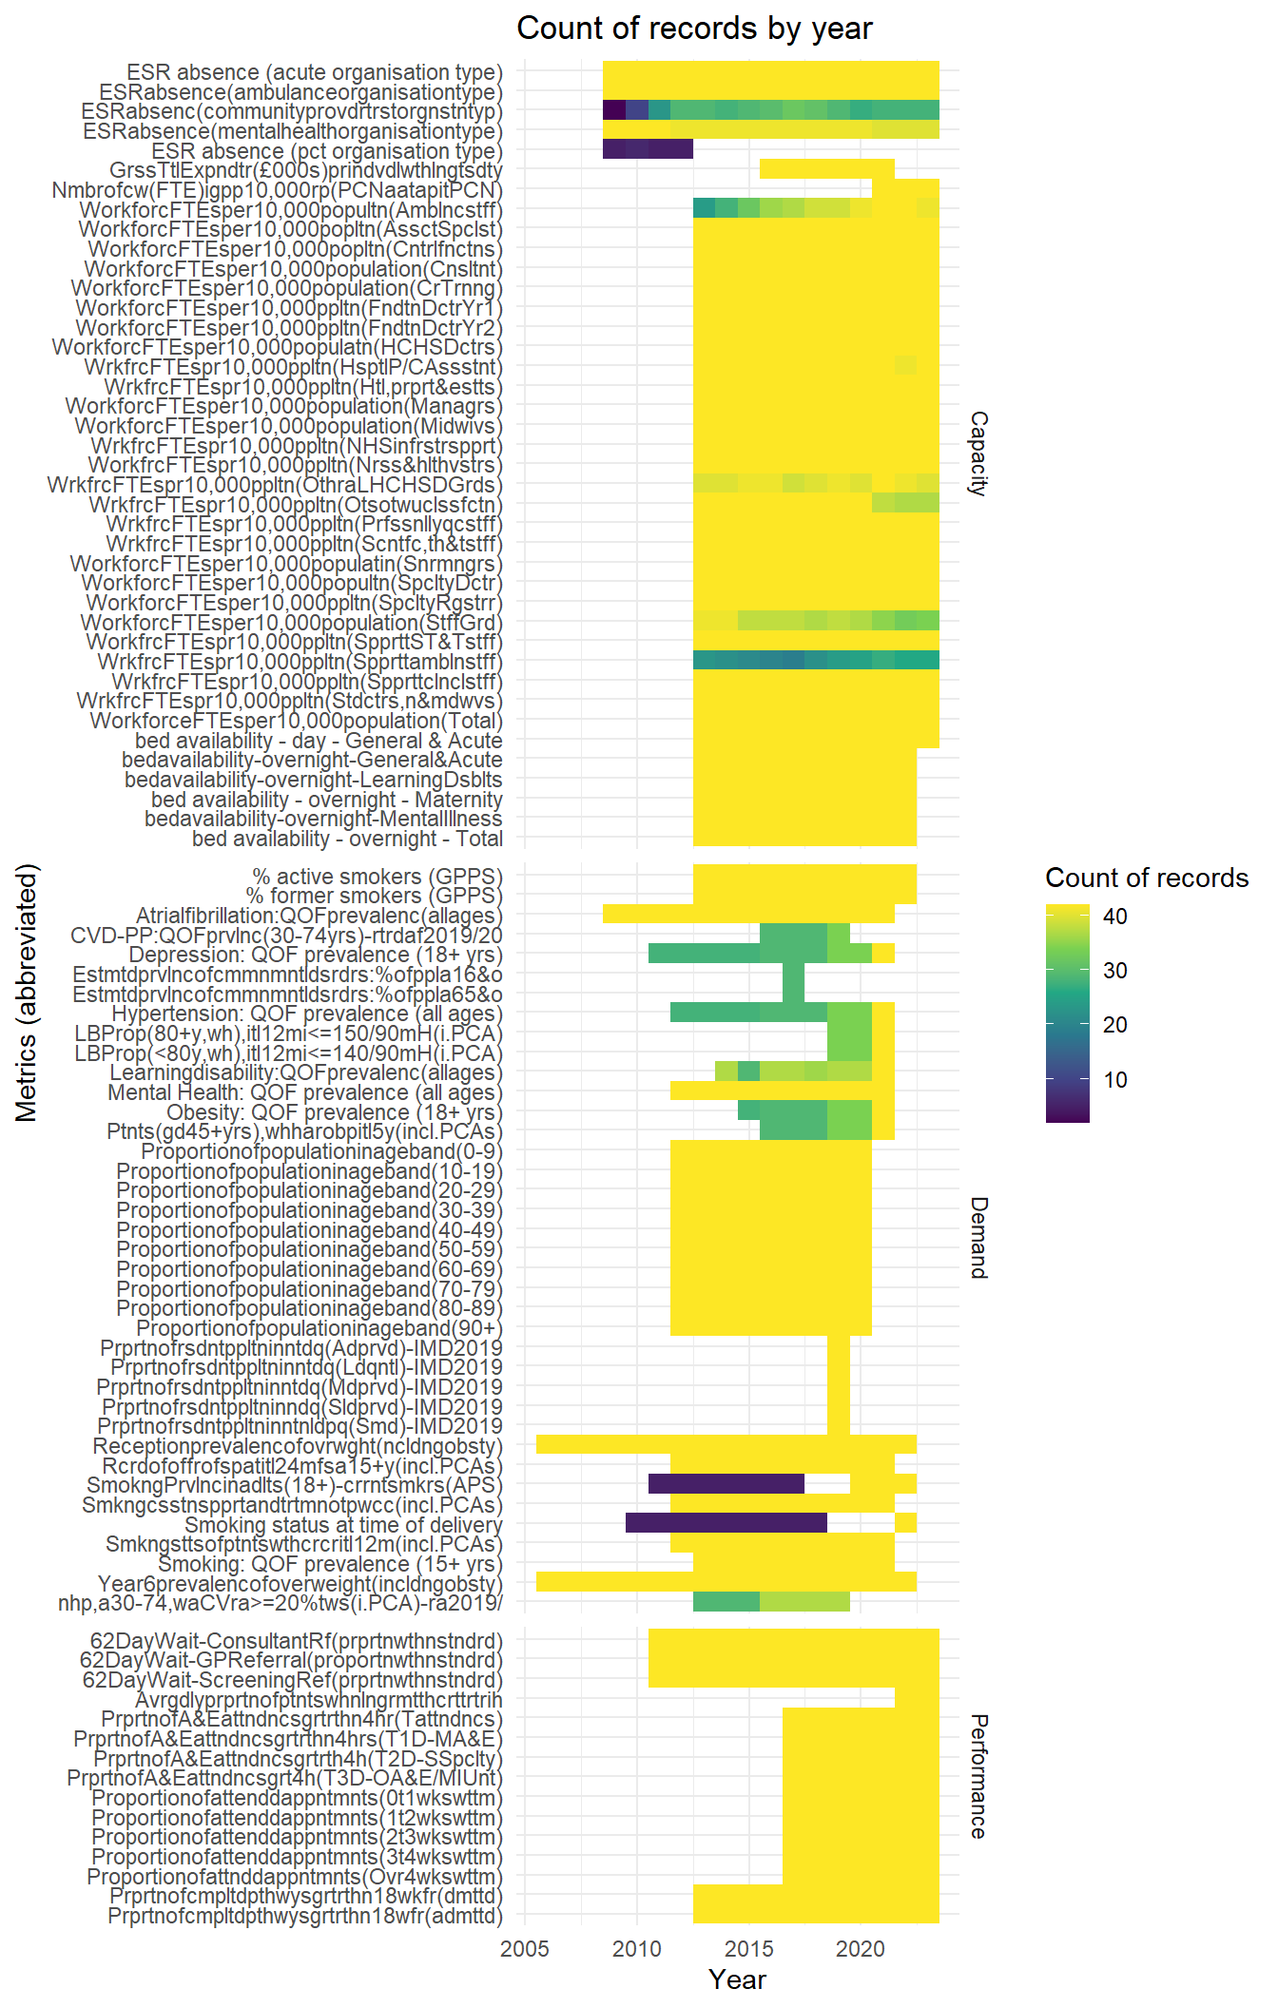
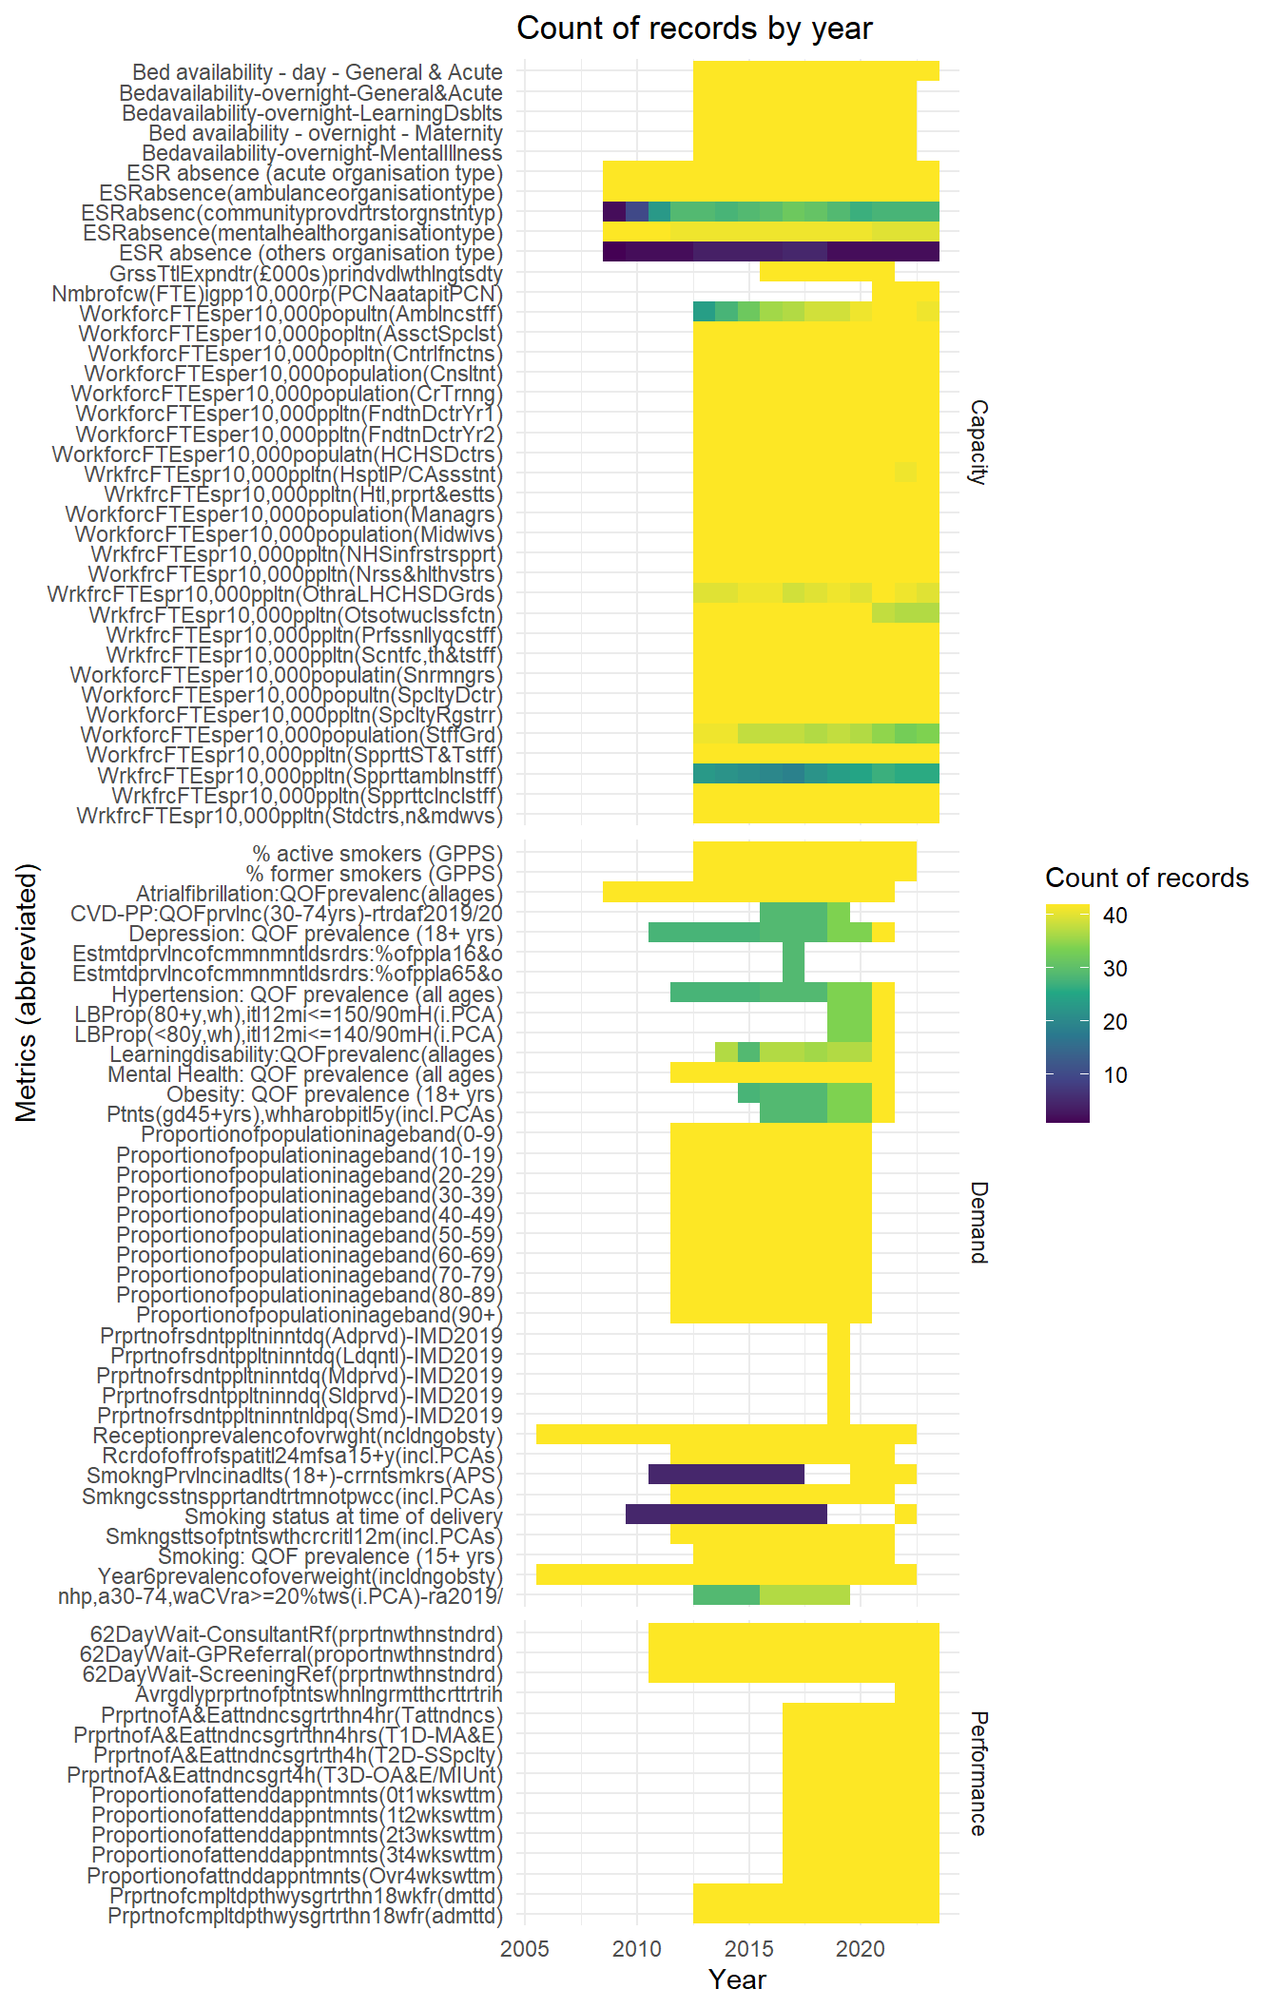
updates exploratory data analysis with correlation plots

diff --git a/docs/outputs/data_description.html b/docs/outputs/data_description.html
@@ -210,163 +210,155 @@ ul.task-list li input[type="checkbox"] {
 <tbody>
 <tr class="odd">
 <td style="text-align: left; color: white !important; background-color: #681C66 !important;">Capacity</td>
-<td style="text-align: left; color: white !important; background-color: #681C66 !important;">ESR absence (acute organisation type)</td>
+<td style="text-align: left; color: white !important; background-color: #681C66 !important;">Bed availability - day - General &amp; Acute</td>
 </tr>
 <tr class="even">
+<td style="text-align: left; color: white !important; background-color: #681C66 !important;">Capacity</td>
+<td style="text-align: left; color: white !important; background-color: #681C66 !important;">Bed availability - overnight - General &amp; Acute</td>
+</tr>
+<tr class="odd">
+<td style="text-align: left; color: white !important; background-color: #681C66 !important;">Capacity</td>
+<td style="text-align: left; color: white !important; background-color: #681C66 !important;">Bed availability - overnight - Learning Disabilities</td>
+</tr>
+<tr class="even">
+<td style="text-align: left; color: white !important; background-color: #681C66 !important;">Capacity</td>
+<td style="text-align: left; color: white !important; background-color: #681C66 !important;">Bed availability - overnight - Maternity</td>
+</tr>
+<tr class="odd">
+<td style="text-align: left; color: white !important; background-color: #681C66 !important;">Capacity</td>
+<td style="text-align: left; color: white !important; background-color: #681C66 !important;">Bed availability - overnight - Mental Illness</td>
+</tr>
+<tr class="even">
+<td style="text-align: left; color: white !important; background-color: #681C66 !important;">Capacity</td>
+<td style="text-align: left; color: white !important; background-color: #681C66 !important;">ESR absence (acute organisation type)</td>
+</tr>
+<tr class="odd">
 <td style="text-align: left; color: white !important; background-color: #681C66 !important;">Capacity</td>
 <td style="text-align: left; color: white !important; background-color: #681C66 !important;">ESR absence (ambulance organisation type)</td>
 </tr>
-<tr class="odd">
+<tr class="even">
 <td style="text-align: left; color: white !important; background-color: #681C66 !important;">Capacity</td>
 <td style="text-align: left; color: white !important; background-color: #681C66 !important;">ESR absence (community provider trust organisation type)</td>
 </tr>
-<tr class="even">
+<tr class="odd">
 <td style="text-align: left; color: white !important; background-color: #681C66 !important;">Capacity</td>
 <td style="text-align: left; color: white !important; background-color: #681C66 !important;">ESR absence (mental health organisation type)</td>
 </tr>
-<tr class="odd">
-<td style="text-align: left; color: white !important; background-color: #681C66 !important;">Capacity</td>
-<td style="text-align: left; color: white !important; background-color: #681C66 !important;">ESR absence (pct organisation type)</td>
-</tr>
 <tr class="even">
+<td style="text-align: left; color: white !important; background-color: #681C66 !important;">Capacity</td>
+<td style="text-align: left; color: white !important; background-color: #681C66 !important;">ESR absence (others organisation type)</td>
+</tr>
+<tr class="odd">
 <td style="text-align: left; color: white !important; background-color: #681C66 !important;">Capacity</td>
 <td style="text-align: left; color: white !important; background-color: #681C66 !important;">Gross Total Expenditure (£000s) per individual with long term support during the year</td>
 </tr>
-<tr class="odd">
+<tr class="even">
 <td style="text-align: left; color: white !important; background-color: #681C66 !important;">Capacity</td>
 <td style="text-align: left; color: white !important; background-color: #681C66 !important;">Number of clinical workforce (FTE) in general practice per 10,000 registered patients (PCN average applied to all practices in the PCN)</td>
 </tr>
-<tr class="even">
+<tr class="odd">
 <td style="text-align: left; color: white !important; background-color: #681C66 !important;">Capacity</td>
 <td style="text-align: left; color: white !important; background-color: #681C66 !important;">Workforce FTEs per 10,000 population (Ambulance staff)</td>
 </tr>
-<tr class="odd">
+<tr class="even">
 <td style="text-align: left; color: white !important; background-color: #681C66 !important;">Capacity</td>
 <td style="text-align: left; color: white !important; background-color: #681C66 !important;">Workforce FTEs per 10,000 population (Associate Specialist)</td>
 </tr>
-<tr class="even">
+<tr class="odd">
 <td style="text-align: left; color: white !important; background-color: #681C66 !important;">Capacity</td>
 <td style="text-align: left; color: white !important; background-color: #681C66 !important;">Workforce FTEs per 10,000 population (Central functions)</td>
 </tr>
-<tr class="odd">
+<tr class="even">
 <td style="text-align: left; color: white !important; background-color: #681C66 !important;">Capacity</td>
 <td style="text-align: left; color: white !important; background-color: #681C66 !important;">Workforce FTEs per 10,000 population (Consultant)</td>
 </tr>
-<tr class="even">
+<tr class="odd">
 <td style="text-align: left; color: white !important; background-color: #681C66 !important;">Capacity</td>
 <td style="text-align: left; color: white !important; background-color: #681C66 !important;">Workforce FTEs per 10,000 population (Core Training)</td>
 </tr>
-<tr class="odd">
+<tr class="even">
 <td style="text-align: left; color: white !important; background-color: #681C66 !important;">Capacity</td>
 <td style="text-align: left; color: white !important; background-color: #681C66 !important;">Workforce FTEs per 10,000 population (Foundation Doctor Year 1)</td>
 </tr>
-<tr class="even">
+<tr class="odd">
 <td style="text-align: left; color: white !important; background-color: #681C66 !important;">Capacity</td>
 <td style="text-align: left; color: white !important; background-color: #681C66 !important;">Workforce FTEs per 10,000 population (Foundation Doctor Year 2)</td>
 </tr>
-<tr class="odd">
+<tr class="even">
 <td style="text-align: left; color: white !important; background-color: #681C66 !important;">Capacity</td>
 <td style="text-align: left; color: white !important; background-color: #681C66 !important;">Workforce FTEs per 10,000 population (HCHS Doctors)</td>
 </tr>
-<tr class="even">
+<tr class="odd">
 <td style="text-align: left; color: white !important; background-color: #681C66 !important;">Capacity</td>
 <td style="text-align: left; color: white !important; background-color: #681C66 !important;">Workforce FTEs per 10,000 population (Hospital Practitioner / Clinical Assistant)</td>
 </tr>
-<tr class="odd">
+<tr class="even">
 <td style="text-align: left; color: white !important; background-color: #681C66 !important;">Capacity</td>
 <td style="text-align: left; color: white !important; background-color: #681C66 !important;">Workforce FTEs per 10,000 population (Hotel, property &amp; estates)</td>
 </tr>
-<tr class="even">
+<tr class="odd">
 <td style="text-align: left; color: white !important; background-color: #681C66 !important;">Capacity</td>
 <td style="text-align: left; color: white !important; background-color: #681C66 !important;">Workforce FTEs per 10,000 population (Managers)</td>
 </tr>
-<tr class="odd">
+<tr class="even">
 <td style="text-align: left; color: white !important; background-color: #681C66 !important;">Capacity</td>
 <td style="text-align: left; color: white !important; background-color: #681C66 !important;">Workforce FTEs per 10,000 population (Midwives)</td>
 </tr>
-<tr class="even">
+<tr class="odd">
 <td style="text-align: left; color: white !important; background-color: #681C66 !important;">Capacity</td>
 <td style="text-align: left; color: white !important; background-color: #681C66 !important;">Workforce FTEs per 10,000 population (NHS infrastructure support)</td>
 </tr>
-<tr class="odd">
+<tr class="even">
 <td style="text-align: left; color: white !important; background-color: #681C66 !important;">Capacity</td>
 <td style="text-align: left; color: white !important; background-color: #681C66 !important;">Workforce FTEs per 10,000 population (Nurses &amp; health visitors)</td>
 </tr>
-<tr class="even">
+<tr class="odd">
 <td style="text-align: left; color: white !important; background-color: #681C66 !important;">Capacity</td>
 <td style="text-align: left; color: white !important; background-color: #681C66 !important;">Workforce FTEs per 10,000 population (Other and Local HCHS Doctor Grades)</td>
 </tr>
-<tr class="odd">
+<tr class="even">
 <td style="text-align: left; color: white !important; background-color: #681C66 !important;">Capacity</td>
 <td style="text-align: left; color: white !important; background-color: #681C66 !important;">Workforce FTEs per 10,000 population (Other staff or those with unknown classification)</td>
 </tr>
-<tr class="even">
+<tr class="odd">
 <td style="text-align: left; color: white !important; background-color: #681C66 !important;">Capacity</td>
 <td style="text-align: left; color: white !important; background-color: #681C66 !important;">Workforce FTEs per 10,000 population (Professionally qualified clinical staff)</td>
 </tr>
-<tr class="odd">
+<tr class="even">
 <td style="text-align: left; color: white !important; background-color: #681C66 !important;">Capacity</td>
 <td style="text-align: left; color: white !important; background-color: #681C66 !important;">Workforce FTEs per 10,000 population (Scientific, therapeutic &amp; technical staff)</td>
 </tr>
-<tr class="even">
+<tr class="odd">
 <td style="text-align: left; color: white !important; background-color: #681C66 !important;">Capacity</td>
 <td style="text-align: left; color: white !important; background-color: #681C66 !important;">Workforce FTEs per 10,000 population (Senior managers)</td>
 </tr>
-<tr class="odd">
+<tr class="even">
 <td style="text-align: left; color: white !important; background-color: #681C66 !important;">Capacity</td>
 <td style="text-align: left; color: white !important; background-color: #681C66 !important;">Workforce FTEs per 10,000 population (Specialty Doctor)</td>
 </tr>
-<tr class="even">
+<tr class="odd">
 <td style="text-align: left; color: white !important; background-color: #681C66 !important;">Capacity</td>
 <td style="text-align: left; color: white !important; background-color: #681C66 !important;">Workforce FTEs per 10,000 population (Specialty Registrar)</td>
 </tr>
-<tr class="odd">
+<tr class="even">
 <td style="text-align: left; color: white !important; background-color: #681C66 !important;">Capacity</td>
 <td style="text-align: left; color: white !important; background-color: #681C66 !important;">Workforce FTEs per 10,000 population (Staff Grade)</td>
 </tr>
-<tr class="even">
+<tr class="odd">
 <td style="text-align: left; color: white !important; background-color: #681C66 !important;">Capacity</td>
 <td style="text-align: left; color: white !important; background-color: #681C66 !important;">Workforce FTEs per 10,000 population (Support to ST&amp;T staff)</td>
 </tr>
-<tr class="odd">
+<tr class="even">
 <td style="text-align: left; color: white !important; background-color: #681C66 !important;">Capacity</td>
 <td style="text-align: left; color: white !important; background-color: #681C66 !important;">Workforce FTEs per 10,000 population (Support to ambulance staff)</td>
 </tr>
-<tr class="even">
+<tr class="odd">
 <td style="text-align: left; color: white !important; background-color: #681C66 !important;">Capacity</td>
 <td style="text-align: left; color: white !important; background-color: #681C66 !important;">Workforce FTEs per 10,000 population (Support to clinical staff)</td>
 </tr>
-<tr class="odd">
+<tr class="even">
 <td style="text-align: left; color: white !important; background-color: #681C66 !important;">Capacity</td>
 <td style="text-align: left; color: white !important; background-color: #681C66 !important;">Workforce FTEs per 10,000 population (Support to doctors, nurses &amp; midwives)</td>
-</tr>
-<tr class="even">
-<td style="text-align: left; color: white !important; background-color: #681C66 !important;">Capacity</td>
-<td style="text-align: left; color: white !important; background-color: #681C66 !important;">Workforce FTEs per 10,000 population (Total)</td>
-</tr>
-<tr class="odd">
-<td style="text-align: left; color: white !important; background-color: #681C66 !important;">Capacity</td>
-<td style="text-align: left; color: white !important; background-color: #681C66 !important;">bed availability - day - General &amp; Acute</td>
-</tr>
-<tr class="even">
-<td style="text-align: left; color: white !important; background-color: #681C66 !important;">Capacity</td>
-<td style="text-align: left; color: white !important; background-color: #681C66 !important;">bed availability - overnight - General &amp; Acute</td>
-</tr>
-<tr class="odd">
-<td style="text-align: left; color: white !important; background-color: #681C66 !important;">Capacity</td>
-<td style="text-align: left; color: white !important; background-color: #681C66 !important;">bed availability - overnight - Learning Disabilities</td>
-</tr>
-<tr class="even">
-<td style="text-align: left; color: white !important; background-color: #681C66 !important;">Capacity</td>
-<td style="text-align: left; color: white !important; background-color: #681C66 !important;">bed availability - overnight - Maternity</td>
-</tr>
-<tr class="odd">
-<td style="text-align: left; color: white !important; background-color: #681C66 !important;">Capacity</td>
-<td style="text-align: left; color: white !important; background-color: #681C66 !important;">bed availability - overnight - Mental Illness</td>
-</tr>
-<tr class="even">
-<td style="text-align: left; color: white !important; background-color: #681C66 !important;">Capacity</td>
-<td style="text-align: left; color: white !important; background-color: #681C66 !important;">bed availability - overnight - Total</td>
 </tr>
 <tr class="odd">
 <td style="text-align: left; color: white !important; background-color: #AC2572 !important;">Demand</td>

diff --git a/docs/outputs/data_exploratory_data_analysis.html b/docs/outputs/data_exploratory_data_analysis.html
@@ -107,6 +107,18 @@ ul.task-list li input[type="checkbox"] {
           </a> 
       </div>
       <ul id="quarto-sidebar-section-1" class="collapse list-unstyled sidebar-section depth1 show">  
+          <li class="sidebar-item">
+  <div class="sidebar-item-container"> 
+  <a href="../outputs/introduction_scope.html" class="sidebar-item-text sidebar-link">
+ <span class="menu-text">Scope</span></a>
+  </div>
+</li>
+          <li class="sidebar-item">
+  <div class="sidebar-item-container"> 
+  <a href="../outputs/introduction_introduction_and_aims.html" class="sidebar-item-text sidebar-link">
+ <span class="menu-text">Introduction and aims</span></a>
+  </div>
+</li>
       </ul>
   </li>
         <li class="sidebar-item sidebar-item-section">
@@ -138,7 +150,13 @@ ul.task-list li input[type="checkbox"] {
 <div id="quarto-sidebar-glass" data-bs-toggle="collapse" data-bs-target="#quarto-sidebar,#quarto-sidebar-glass"></div>
 <!-- margin-sidebar -->
     <div id="quarto-margin-sidebar" class="sidebar margin-sidebar">
-        
+        <nav id="TOC" role="doc-toc" class="toc-active">
+    <h2 id="toc-title">On this page</h2>
+   
+  <ul>
+  <li><a href="#correlation-plots" id="toc-correlation-plots" class="nav-link active" data-scroll-target="#correlation-plots">Correlation plots</a></li>
+  </ul>
+</nav>
     </div>
 <!-- main -->
 <main class="content" id="quarto-document-content">
@@ -160,8 +178,43 @@ ul.task-list li input[type="checkbox"] {
 
 </header>
 
+<section id="correlation-plots" class="level2">
+<h2 class="anchored" data-anchor-id="correlation-plots">Correlation plots</h2>
+<p>These plots highlight which of the variables are correlated.</p>
+<div class="tabset-margin-container"></div><div class="panel-tabset">
+<ul class="nav nav-tabs" role="tablist"><li class="nav-item" role="presentation"><a class="nav-link active" id="tabset-1-1-tab" data-bs-toggle="tab" data-bs-target="#tabset-1-1" role="tab" aria-controls="tabset-1-1" aria-selected="true" aria-current="page">Capacity</a></li><li class="nav-item" role="presentation"><a class="nav-link" id="tabset-1-2-tab" data-bs-toggle="tab" data-bs-target="#tabset-1-2" role="tab" aria-controls="tabset-1-2" aria-selected="false">Demand</a></li><li class="nav-item" role="presentation"><a class="nav-link" id="tabset-1-3-tab" data-bs-toggle="tab" data-bs-target="#tabset-1-3" role="tab" aria-controls="tabset-1-3" aria-selected="false">Performance</a></li></ul>
+<div class="tab-content">
+<div id="tabset-1-1" class="tab-pane active" role="tabpanel" aria-labelledby="tabset-1-1-tab">
+<p><img src="data_exploratory_data_analysis_files/figure-html/corr-plots-1.png" class="img-fluid" width="864"></p>
+<p>The following either provide too little data or are highly correlated with another metric, and have therefore been removed:</p>
+<ul>
+<li><p>ESR absence (pct organisation type)</p></li>
+<li><p>Bed availability - day - Learning Disabilities</p></li>
+<li><p>Bed availability - day - Maternity</p></li>
+<li><p>Bed availability - day - Mental Illness</p></li>
+<li><p>Bed availability - day - Total</p></li>
+<li><p>Bed availability - overnight - Total</p></li>
+<li><p>Workforce FTEs per 10,000 population (Total)</p></li>
+</ul>
+</div>
+<div id="tabset-1-2" class="tab-pane" role="tabpanel" aria-labelledby="tabset-1-2-tab">
+<p><img src="data_exploratory_data_analysis_files/figure-html/corr-plots-2.png" class="img-fluid" width="864"></p>
+<p>The following either provide too little data or are highly correlated with another metric, and have therefore been removed:</p>
+<ul>
+<li><p>Last BP reading of patients (&lt;80 yrs, with hypertension), in the last 12 months is &lt;= 140/90 mmHg (denominator incl.&nbsp;PCAs)</p></li>
+<li><p>Smoking status of patients with certain conditions recorded in the last 12 months (denominator incl.&nbsp;PCAs)</p></li>
+<li><p>Estimated prevalence of common mental disorders: % of population aged 16 &amp; over</p></li>
+<li><p>Estimated prevalence of common mental disorders: % of population aged 65 &amp; over</p></li>
+</ul>
+</div>
+<div id="tabset-1-3" class="tab-pane" role="tabpanel" aria-labelledby="tabset-1-3-tab">
+<p><img src="data_exploratory_data_analysis_files/figure-html/corr-plots-3.png" class="img-fluid" width="864"></p>
+</div>
+</div>
+</div>
 
 
+</section>
 
 </main> <!-- /main -->
 <script id="quarto-html-after-body" type="application/javascript">
